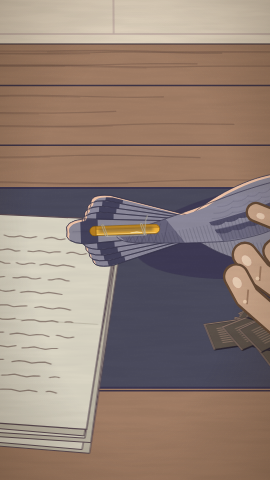
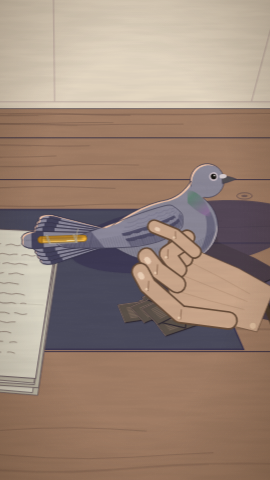
Paris: bolum.json C2 (P05 cs 1.5 yatık parmak, P09 kuş başı kadrajda, P10 oda/kapı v3, P04b kapak eli); geçici dosyalar silindi
Claude-Session: https://claude.ai/code/session_016TQpGZpeHN6G533EvDTLco

diff --git a/bolumler/paris-kusatmasi/katki-raporu.md b/bolumler/paris-kusatmasi/katki-raporu.md
@@ -984,3 +984,10 @@
   - Yazı bandı: `kapi` üst bandı artık koyu zeminde, yani açık mürekkep (v2'deki koyu mürekkep notu kalktı).
 - Uyguladığım kurallar / yakaladığım ihlaller: tek ışık kaynağı (havuz, kenar ve gölge aynı vektörden), ışın perdeyi aşmaz, maske dikişi yok (tek kapalı yol), kemer yok (düz lento), alçak kamerada tavan ve soffit alt yüzü görünür, ufuk–ölçek (ayaktaki memur başı y 973 ≈ ufuk 960), tarama yalnız mimari gölgede, tek yönlü, kafes yok, 360'ta ≥ 1 px. Eleştirmenin "huzme ≥ %15" ölçütü fiziksel olarak kama için %10.3'te kalıyor (kama + görüntü %22). Gerekçe ve `lint.izin` önerisi §4v3.3'te.
 - Açık sorular / bir sonraki ajana notlar: (1) Eleştirmen/yönetmen: huzme ölçütü izni. (2) Tasarımcı: baş bbox +16 px sağa (burun açıklık kenarından 44 px içeride kalsın). (3) Yönetmen: §4v3.9 tablosu (perde_bez, huzme kaynağı, memur x'leri, `kapi` itmesi 1.0→1.06). (4) Araştırmacı: bez mi duvar mı, iç kepenk ve çift kanatlı kapı [G]. (5) Motion: önce f330, sonra f200; ölçüm listesi §4v3.8.
+
+## yönetmen · 2026-11-13 · C2 düzeltmeleri (bolum.json)
+- Ne yaptım: P05 kamera cs 2.0→1.5 (cx −30, cy −465; ölçü bölgesi ekranda (540,930) kalır; şerit 210, parmak 246 px; parmak `poz: yatik`, el ≤%35 beyanı, şerit mikro deseni = sayfa minyatürü notu). P09 kamera cs 1.3→1.4, cx −250→−290, cy −40/−60: kuş başı x≈820/y≈720 (hedef 650–820), kılıf ≈195 px (%10). P10 `oda`: `perde` → `perde_bez {61%, 29%}`, huzme kaynağı [892,1605], memur x [82,344,671,945], memur-3 945; `kapi`: kamera_dunya F 1180/göz 1.25, kamera kare [266,296,386,398] cs 1/1/1.06/1.06 cx 0/0/−10/−10 cy 0/0/−6/−6, okuyan baş [743,585] (+16 px), kâğıt (370,985) 200×370. P10 `lint {izin:["huzme_alan_perde_dahil"], not:"§4v3.3, tur-15; C2, render motion sonrası"}`. P04b `kafes_kapak.el` (parisGri, sağdan girer f136–150, açar f146–162, çıkar f162–172, temas 150) + kuş ×0.85. Kural 7: P05 f280 ve P09 f150 mevcut kodla render edildi (`kalibrasyon/C2/yonetmen/`). Doğrulayıcı --tam: GEÇTİ (0 hata).
+- Dokunduğum dosyalar: bolumler/paris-kusatmasi/bolum.json, kalibrasyon/C2/yonetmen/P05-f280.png, P09-f150.png, katki-raporu.md
+- Kararlar: P05 cs 1.5 (eleştirmen ~1.5): ölçü noktası (540,930) korunur ki P06 eşleşmesi bozulmasın. P09'da tasarım baş aralığı + kılıf aynı karede ancak cs ~1.4'te sığdı (cs 2.0'da baş kadraj dışıydı); kılıf %10 sınırda.
+- Kurallar / ihlaller: P05 f280 render'ı hâlâ ESKİ el pozu (kalkık tek parmak, el ≈%53) gösteriyor — kadraj doğru (sayfa+şerit+el aynı karede), poz motion'ın `olcu` pozuna bağlı. P10 kodu değişmediği için oda/kapi render edilmedi (lint notu bu yüzden). Yazı stili: `yazi.tsx` yalnız kâğıt şerit; kapı karesinde açık-mürekkep/koyu zemin parametresi yok → `KE-PK-Y1` kit_eksik (mevcut kâğıt şerit her zeminde okunur).
+- Açık sorular: (1) P06 rota ilk parça uzunluğu 280→210 px olmalı (P05 taşıyıcı çıkışı) — P06 sahibi/orkestra. (2) P09 kılıf %10 sınırda; ip ≥4 px koyu 2 sarım motion'da. (3) P04b el: kuş ×0.85 `kafes.kus_olcek` motion'ın okuyacağı yeni anahtar; el f136–172 sınırı kapak anim (f146–162) içinde. (4) P10 oda/kapi f200/f330 motion sonrası yönetmen tarafından render edilip bakılmalı.
